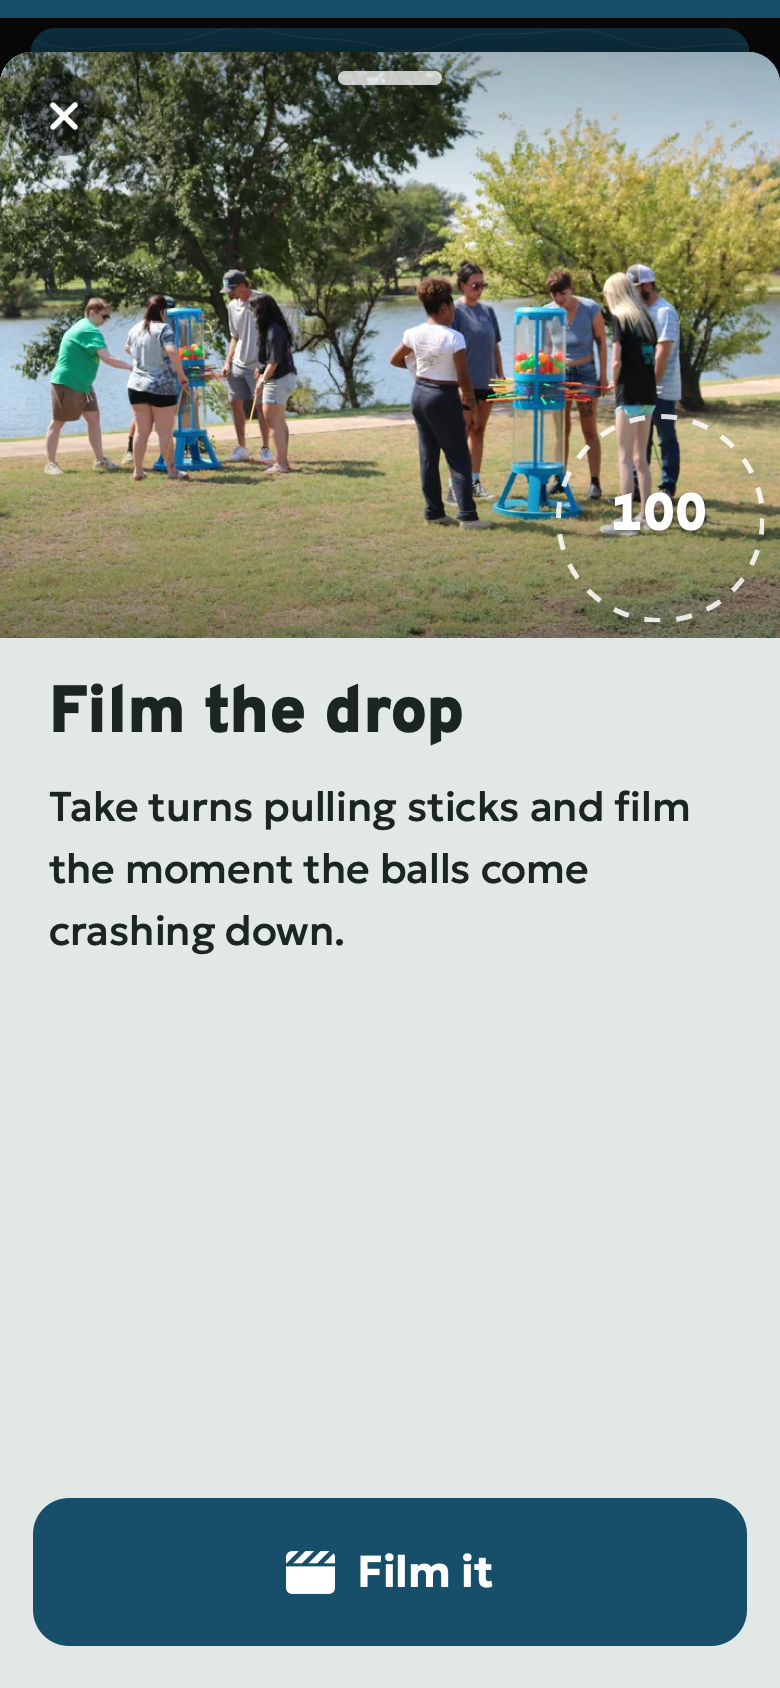
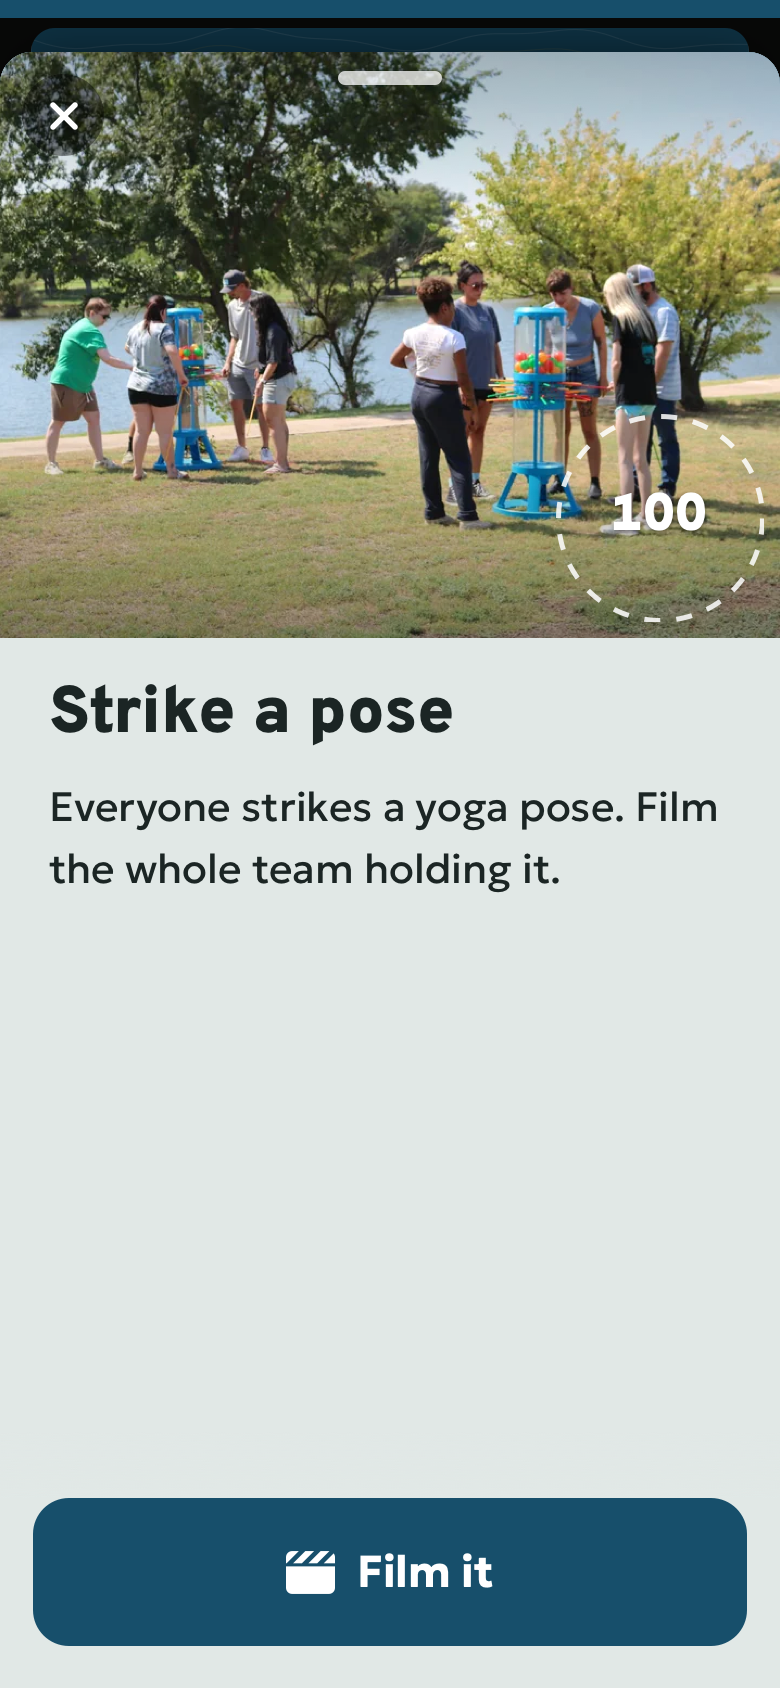
fix(home): show three teams and a joined team's real points on the practice phone
The phone now shows 4 of 8 (joining done, 200 points), the green team
ahead in 1st, an unknown team in 3rd, and a yoga video challenge in
place of the KerPlunk photo that had two teams in it.

Changed region(s): [[0.0615, 0.4005, 0.9231, 0.5853]]

diff --git a/src/content/practice.ts b/src/content/practice.ts
@@ -21,14 +21,19 @@ export interface DetailCard {
 export const detailCards: DetailCard[] = [
   { kind: 'photo', fa: 'camera', verb: 'Snap it', img: '/img/practice/tower.webp', alt: 'The team stacking giant colored blocks into a tall tower in the park.', title: 'Tower of power',
     mission: 'Stack the giant blocks as high as they’ll go, then get the whole team in the shot.', points: 100 },
-  { kind: 'video', fa: 'clapperboard', verb: 'Film it', img: '/img/practice/kerplunk.webp', alt: 'Teams playing giant KerPlunk by the lake.', title: 'Film the drop',
-    mission: 'Take turns pulling sticks and film the moment the balls come crashing down.', points: 100 },
+  { kind: 'video', fa: 'clapperboard', verb: 'Film it', img: '/img/practice/yoga.webp', alt: 'Three teammates holding yoga poses on the grass.', title: 'Strike a pose',
+    mission: 'Everyone strikes a yoga pose. Film the whole team holding it.', points: 100 },
   { kind: 'trivia', fa: 'circle-question', verb: 'Answer it', img: '/img/practice/golf.webp', alt: 'A player lining up a golf shot at the driving range.', title: 'Tee box trivia',
     mission: 'In golf, what do you call one stroke under par on a hole?', points: 50, answer: 'field' },
   { kind: 'choice', fa: 'list-ul', verb: 'Pick one', img: '/img/practice/lot.webp', alt: 'A team in a parking lot, one player pointing the way.', title: 'Which way now?',
     mission: 'The clue reads: “Where the ducks are.” Where do you head next?', points: 50, answer: 'picks', picks: ['The lake', 'The library', 'The bakery'] },
 ];
 
-/** Two rivals ahead and one behind the example team: 3rd place with 125 points. */
-export const practicePoints = 125;
-export const practiceRivals = [50, 200, 275];
+/** Joining is the game's four onboarding steps, 50 points each as in real games; the example team has finished them and none of the four challenges. */
+export const onboarding = { steps: 4, points: 200 };
+export const practicePoints = onboarding.points;
+/** The other team we know leads in 1st (joined plus two challenges), the example team is 2nd, and an unknown team that just joined is 3rd. */
+export const practiceRivals: { points: number; img?: string }[] = [
+  { points: 350, img: '/img/practice/team-tile-lead.webp' },
+  { points: 50 },
+];
